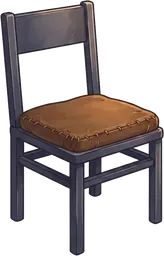
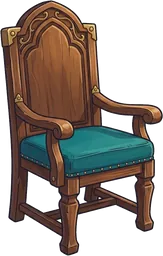
Art: wire the last seven pictures (room crests, Council chair, shopkeeper "ready")
Pack five room crests, the high-backed Council chair (replaces the
lectern-like picture) and the smiling shopkeeper face. Room banners and the
Fortress tab strip wear the round crest when Object art is on; the shield and
plain tabs stay as the fallback. All five store verdicts now have a face.
Docs: progress log, archive, design plan and the remaining-objects note.

Claude-Session: https://claude.ai/code/session_01KaVdB2cD3gs35mNKh4PsmU

diff --git a/frontend/src/lib/artManifest.ts b/frontend/src/lib/artManifest.ts
@@ -95,6 +95,12 @@ import marketBooth2 from "../assets/art/market-booth-2.webp";
 import marketBoothProduce from "../assets/art/market-booth-produce.webp";
 import councilSitPartner from "../assets/art/council-sit-partner.webp";
 import councilSitOracle from "../assets/art/council-sit-oracle.webp";
+import crestCouncil from "../assets/art/crest-council.webp";
+import crestRecords from "../assets/art/crest-records.webp";
+import crestCircle from "../assets/art/crest-circle.webp";
+import crestChronicle from "../assets/art/crest-chronicle.webp";
+import crestMap from "../assets/art/crest-map.webp";
+import shopkeeperReady from "../assets/art/shopkeeper-ready.webp";
 
 export interface PackedArt {
   src: string;
@@ -184,7 +190,7 @@ export const ART_MANIFEST = {
   "map-dividers": { src: mapDividers, width: 94, height: 160, alt: "" },
   "map-rolled": { src: mapRolled, width: 192, height: 130, alt: "" },
   "council-table": { src: councilTable, width: 320, height: 310, alt: "" },
-  "council-chair": { src: councilChair, width: 164, height: 256, alt: "" },
+  "council-chair": { src: councilChair, width: 163, height: 256, alt: "" },
   "council-candles": { src: councilCandles, width: 87, height: 256, alt: "", anchors: { "f1": [0.505, 0.012] as const, "f2": [0.18, 0.145] as const, "f3": [0.815, 0.205] as const } },
   "room-scroll": { src: roomScroll, width: 192, height: 130, alt: "" },
   "room-inkwell": { src: roomInkwell, width: 99, height: 160, alt: "" },
@@ -201,4 +207,10 @@ export const ART_MANIFEST = {
   "market-booth-produce": { src: marketBoothProduce, width: 132, height: 160, alt: "" },
   "council-sit-partner": { src: councilSitPartner, width: 192, height: 256, alt: "" },
   "council-sit-oracle": { src: councilSitOracle, width: 160, height: 256, alt: "" },
+  "crest-council": { src: crestCouncil, width: 192, height: 192, alt: "" },
+  "crest-records": { src: crestRecords, width: 192, height: 192, alt: "" },
+  "crest-circle": { src: crestCircle, width: 192, height: 192, alt: "" },
+  "crest-chronicle": { src: crestChronicle, width: 192, height: 192, alt: "" },
+  "crest-map": { src: crestMap, width: 192, height: 192, alt: "" },
+  "shopkeeper-ready": { src: shopkeeperReady, width: 365, height: 384, alt: "" },
 } as const satisfies Record<string, PackedArt>;

diff --git a/frontend/src/components/fortress/kit/Crest.tsx b/frontend/src/components/fortress/kit/Crest.tsx
@@ -1,4 +1,7 @@
 import type { CrestKind } from "../../../lib/crest";
+import { roomCrestId } from "../../../lib/roomArt";
+import type { ObjectArtId } from "../../../lib/stitchArt";
+import ObjectArtImage from "../../ObjectArtImage";
 
 /** Heraldic crest for a game page header (page-scene kit). One small painted shield per room; the
  * glyph is decoration that names the room, it never encodes a status. Fixed colours, like the other
@@ -72,11 +75,16 @@ function Glyph({ kind }: { kind: CrestKind }) {
 }
 
 export default function Crest({ kind, className = "h-11 w-11" }: { kind: CrestKind; className?: string }) {
-  return (
+  const shield = (
     <svg viewBox="0 0 40 44" className={`shrink-0 ${className}`} aria-hidden>
       <path d="M3 3 H37 V24 Q37 37 20 42 Q3 37 3 24 Z" fill="#3a2414" stroke="#d9a93e" strokeWidth="1.6" />
       <path d="M6 6 H34 V24 Q34 34 20 39 Q6 34 6 24 Z" fill="none" stroke="#7a5418" strokeWidth="0.8" />
       <Glyph kind={kind} />
     </svg>
   );
+  // Object art on: the room's round medallion replaces the shield. It is decoration (the title names the
+  // room), and the shield is the fallback when art is off, not yet generated, or fails to load.
+  const id = roomCrestId(kind);
+  if (!id) return shield;
+  return <ObjectArtImage id={id as ObjectArtId} width={44} className={`shrink-0 ${className}`} fallback={shield} />;
 }

diff --git a/frontend/src/components/fortress/FortressTabs.tsx b/frontend/src/components/fortress/FortressTabs.tsx
@@ -1,5 +1,9 @@
 import { NavLink } from "react-router-dom";
+import { crestForPath } from "../../lib/crest";
 import { FORTRESS_NAV } from "../../lib/nav";
+import { roomCrestId } from "../../lib/roomArt";
+import type { ObjectArtId } from "../../lib/stitchArt";
+import ObjectArtImage from "../ObjectArtImage";
 
 /** The Fortress rooms as one tab strip (UX noise audit, Wave 3), replacing six
  * extra sidebar links and six buttons on the Fortress page. Shown on every
@@ -25,11 +29,23 @@ export default function FortressTabs() {
             <>
               {/* A small lozenge marks the open room, so the active tab is told by shape as well as colour. */}
               {isActive && <span aria-hidden="true" className="mr-1.5 inline-block h-1.5 w-1.5 rotate-45 bg-accent align-middle" />}
+              {/* Art on: the room's small medallion before its name (decoration; the label stays the name). */}
+              <TabCrest to={item.to} />
               {item.label}
             </>
           )}
         </NavLink>
       ))}
     </nav>
+  );
+}
+
+function TabCrest({ to }: { to: string }) {
+  const id = roomCrestId(crestForPath(to));
+  if (!id) return null;
+  return (
+    <span className="mr-1.5 inline-block align-middle">
+      <ObjectArtImage id={id as ObjectArtId} width={20} fallback={null} />
+    </span>
   );
 }

diff --git a/frontend/src/lib/marketArt.ts b/frontend/src/lib/marketArt.ts
@@ -40,12 +40,12 @@ export function salBustId(mood: Mood): ObjectArtId | null {
 }
 
 /**
- * The shopkeeper's face for a store verdict. Four faces exist (Sprint 6): thoughtful = wait,
- * level gaze = promising, raised hand = pass, shrug = unknown. "ready" has no face yet (it needs a
- * smiling one), so it stays the SVG merchant. The face is the merchant's mood, never the tone
- * colour: the verdict is still written on the page beside it.
+ * The shopkeeper's face for a store verdict. Five faces exist: thoughtful = wait, level gaze = promising,
+ * raised hand = pass, shrug = unknown, and a welcoming smile = ready (added 2026-10-13). The face is the
+ * merchant's mood, never the tone colour: the verdict is still written on the page beside it.
  */
 const SHOPKEEPER_FACE: Partial<Record<StoreLevel, ObjectArtId>> = {
+  ready: "shopkeeper-ready",
   promising: "shopkeeper-promising",
   wait: "shopkeeper-wait",
   pass: "shopkeeper-pass",

diff --git a/frontend/src/lib/marketArt.test.ts b/frontend/src/lib/marketArt.test.ts
@@ -44,11 +44,11 @@ describe("salBustId", () => {
 });
 
 describe("shopkeeperFaceId", () => {
-  it("gives four verdicts a face that exists, and leaves 'ready' to the SVG merchant until it has a smiling one", () => {
-    const faces: StoreLevel[] = ["promising", "wait", "pass", "unknown"];
+  it("gives every verdict its own face, and each face exists", () => {
+    const faces: StoreLevel[] = ["ready", "promising", "wait", "pass", "unknown"];
     const ids = faces.map((l) => shopkeeperFaceId(l));
     for (const id of ids) expect(OBJECT_ART[id!]).toBeDefined();
-    expect(new Set(ids).size).toBe(4);
-    expect(shopkeeperFaceId("ready")).toBeNull();
+    expect(new Set(ids).size).toBe(5);
+    expect(shopkeeperFaceId("ready")).toBe("shopkeeper-ready");
   });
 });

diff --git a/frontend/src/lib/roomArt.test.ts b/frontend/src/lib/roomArt.test.ts
@@ -42,6 +42,13 @@ describe("room art ids", () => {
     }
   });
 
+  it("gives each of the five rooms its own crest picture, and no other room one", () => {
+    const rooms = ["council", "records", "circle", "chronicle", "map"] as const;
+    const ids = rooms.map((r) => roomCrestId(r));
+    expect(ids).toEqual(rooms.map((r) => `crest-${r}`));
+    for (const room of ["siege", "market", "fortress"] as const) expect(roomCrestId(room)).toBeNull();
+  });
+
   it("returns null for a crest or seal whose picture is not packed (never a broken id)", () => {
     const packed = Object.keys(ART_MANIFEST);
     for (const room of ["council", "records", "circle", "chronicle", "map"] as const) {

diff --git a/frontend/src/components/marketplace/MarketArt.tsx b/frontend/src/components/marketplace/MarketArt.tsx
@@ -47,7 +47,7 @@ export function Awning({ a, b, stripes = 10, className = "" }: { a: string; b: s
   );
 }
 
-/** The merchant: the Stitch face for the verdict when art is on (four of the five), else a generic drawn shopkeeper, not anyone's likeness. */
+/** The merchant: the Stitch face for the verdict when art is on (all five verdicts have one), else a generic drawn shopkeeper, not anyone's likeness. */
 export function Merchant({ level, size = 84 }: { level: StoreLevel; size?: number }) {
   const face = shopkeeperFaceId(level);
   const svg = <MerchantSvg level={level} size={size} />;

diff --git a/docs/PROGRESS.md b/docs/PROGRESS.md
@@ -1,22 +1,21 @@
 # Aladdin — Progress
 
-**Last updated:** 2026-10-13 (journal entries can now be edited, PR open; Circle drag-to-place and Siege short rows built on a branch, not merged). Rolling log: active status only, under 100 lines (rules in [CLAUDE.md](../CLAUDE.md), "Progress file rules"). Architecture: [architecture.md](architecture.md).
+**Last updated:** 2026-10-13 (the seven last pictures are wired on a branch, PR to review; Circle/Siege redesign #126 and journal edit #128 are merged). Rolling log: active status only, under 100 lines (rules in [CLAUDE.md](../CLAUDE.md), "Progress file rules"). Architecture: [architecture.md](architecture.md).
 
 ## Current Objective
 
-**The hardening sprint is finished and merged to `main` as PR #125 (deploy not verified); the next phase is the trust slice, starting with C1 Siege back-test. The Circle and Siege redesign is on its own branch first.** PRs #121 to #125 (Sprint 11, hardening baseline, master toggle and art pass, docs reorganization, map and Fortress fixes) are merged to `main`; deploy not verified. Results and what was left: [docs/sprints/hardening-sprint-2026-10-12.md](sprints/hardening-sprint-2026-10-12.md). Decided 2026-10-13: a knife-edge tower stays off the Council agenda for now (the agenda lists real gaps; a near-threshold flag would be noise at this data size). Plan for the art: [docs/game/design-master-sprint-plan-2026-10-11.md](game/design-master-sprint-plan-2026-10-11.md).
+**Close the design plan, then the trust slice.** Hardening (#125), the Circle and Siege redesign (#126) and journal editing (#128) are merged to `main`; deploys not verified. The seven last pictures (five room crests, the Council chair, the shopkeeper "ready" face) are wired on `feature/design-last7-crests`, PR to review. Next: Sprint 7 (default art decision), then C1 Siege back-test. Decided 2026-10-13: no more feature contest until the design plan and C1 are done; a knife-edge tower stays off the Council agenda. Plans: [design-remaining-objects-2026-10-13.md](game/design-remaining-objects-2026-10-13.md), [design-master-sprint-plan-2026-10-11.md](game/design-master-sprint-plan-2026-10-11.md).
 
-State: local checkout `E:\Aladdin` was 8 commits behind `main` on 2026-10-13 and is now on `feature/design-sprint-14-circle-and-siege`, branched from `main` at `500ea0e` (the hardening PR #125 is merged there); masters live in git-ignored `art-masters/`. Repo migration head `t1f2a3b4c5d6`. Live URLs: frontend `https://exciting-gratitude-production-71b5.up.railway.app`, backend `https://aladdin-production-bd25.up.railway.app`.
+State: local checkout `E:\Aladdin` is on `feature/design-last7-crests` (cut from `main` at `9678178`); masters live in git-ignored `art-masters/`. Repo migration head `t1f2a3b4c5d6`. Live URLs: frontend `https://exciting-gratitude-production-71b5.up.railway.app`, backend `https://aladdin-production-bd25.up.railway.app`.
 
 ## Active Tasks
 
-- [ ] **Try editing a journal entry (Faiz):** every entry on the Journal page and the holding page now has an Edit link next to Delete; the form is prefilled and also lets you fix the 6- and 12-month reviews; the company can't be changed. No backend change (the PATCH endpoint already existed). Written on branch `feature/journal-edit`, PR to review, not merged, not deployed; the new component test passes, the full suite and a hand check in the browser are not done
-- [ ] **Review the Circle and Siege redesign (Faiz):** Circle: drag a sector marker onto Inside, On the edge or Outside and it saves on the drop (fog = clear, Undo offered); tap a marker for its note and a keyboard choice; no per-row buttons; sector names no longer collide. Siege: each tower is one short row, beta/fit/days and the stress case behind Details, with Rough guide and Differs from stress case badges. Not merged, not deployed, not tried by hand on a phone
-- [ ] **Confirm the hardening deploy (Faiz):** PR #125 is merged, and a merge deploys. What it holds: friendly load errors with Try again on all 8 game pages, plain-language LLM failure reasons, upload filename guard, accessibility fixes (Lighthouse a11y 100 on the pages re-run), Night Watch no longer pushes the scene down. A merge is a production deploy
-- [ ] **After the deploy, run the browser specs on the live site (Faiz or Claude):** `SMOKE_FRONTEND_URL`, `SMOKE_API_URL`, then `npm run smoke` and `npx playwright test e2e/game-pages.spec.ts`. Both game specs passed only against a local demo stack (33 of 33 and 16 of 16), never against the live site
-- [ ] **C1 Siege back-test (Claude):** with the `siege_scenarios_v3` fix so the unmodelled share shows in the headline (finding 3 of [the team review](game/game-mode-team-review-2026-10-09.md)); read the C1 spec first, new versioned file, no migration
+- [ ] **Review the last-seven pictures PR (Faiz):** five room crests in the room banners and as small medallions in the tab strip, the new high-backed Council chair, and a smiling shopkeeper for the "ready" verdict. Art switch on only; checked with tests, tsc and lint, not seen in a browser. Branch `feature/design-last7-crests`, not merged, not deployed
+- [ ] **Optional backdrops (Faiz):** Council, Circle and Map wide scenes; descriptions in [the design doc](game/design-remaining-objects-2026-10-13.md). Skip if you'd rather not
+- [ ] **Confirm the hardening deploy, then run the live browser specs (Faiz or Claude):** `SMOKE_FRONTEND_URL`, `SMOKE_API_URL`, then `npm run smoke` and `npx playwright test e2e/game-pages.spec.ts` (both passed only against a local demo stack)
+- [ ] **Sprint 7 close-out (Claude, next):** fix Fortress phone performance (73-82 today), re-score identity with screenshots, colour-blind pass, decide the default art, update the visual-identity standard
+- [ ] **C1 Siege back-test (Claude):** with the `siege_scenarios_v3` fix so the unmodelled share shows in the headline (finding 3 of [the team review](game/game-mode-team-review-2026-10-09.md)); new versioned file, no migration
 - [ ] **D1 Plain lens, then D2 Camera (Claude):** trust and first-glance legibility, after C1
-- [ ] **Sprint 7 close-out (Claude):** re-score identity with screenshots (scores are inferred from code), phone performance at 4x throttle on real data, colour-blind pass, update the visual-identity standard
 
 ## Recent Blockers / Open Questions
 

diff --git a/docs/game/design-remaining-objects-2026-10-13.md b/docs/game/design-remaining-objects-2026-10-13.md
@@ -1,0 +1,20 @@
+# Design: closing plan and last Stitch objects (2026-10-13)
+
+Status: **the seven needed pictures arrived and are wired (branch `feature/design-last7-crests`, PR to review, not merged, not deployed).** Three optional backdrops remain. Supersedes "Still missing for the rooms" in [design-master-sprint-plan-2026-10-11.md](design-master-sprint-plan-2026-10-11.md).
+
+## Standing rule
+
+Whenever a new Google Stitch picture is needed, Claude says so at once, with a short non-technical description of what to generate. A slot is never left empty or silently left on its SVG without telling Faiz.
+
+## Done (2026-10-13)
+
+- **Room crests** (`crest-council`, `crest-records`, `crest-circle`, `crest-chronicle`, `crest-map`, 192 px, 12-14 KB each): the round gilded medallion replaces the shield in each room's banner (`Crest`), and a 20 px copy sits before each room's name in the tab strip (`FortressTabs`). Decoration only: the title and tab label still name the room, the active tab keeps its lozenge and `aria-current`. Art off, or a failed load, keeps the shield and the plain tab. Siege, Marketplace and Fortress have no crest picture and keep the shield.
+- **Council chair** (`council-chair`, replaced): a proper high-backed armchair with teal cushion instead of the earlier lectern-like picture. It is the fallback seat; the advisors normally sit in the consolidated `council-sit-*` pictures.
+- **Shopkeeper "ready"** (`shopkeeper-ready`): the smiling face, so all five store verdicts now have a face and the SVG merchant remains only the fallback.
+
+## Still open
+
+- Three optional wide backdrops, quiet and muted, no people or writing: **Council** (candle-lit stone chamber, empty), **Circle** (grassy clearing at dusk, standing stones faint in the distance), **Map** (cartographer's desk from slightly above, parchment edge and a few instruments). Packed with key mode `none`, each at most 120 KB, behind the banner.
+- Sprint 7 last: Fortress phone performance, identity re-score with screenshots, colour-blind pass, decide the default art, update the visual-identity standard.
+
+Unused masters (kept, not packed): pin, wave tile, signpost, telescope, lantern post, sundial, weathervane, cairn, pigeonholes, tomes, gavel, planted flag, the tower-on-teal-disc crest.

diff --git a/docs/game/design-master-sprint-plan-2026-10-11.md b/docs/game/design-master-sprint-plan-2026-10-11.md
@@ -280,6 +280,8 @@ Same rules as Sprints 1 to 6: one branch and one PR per sprint off fresh `main`,
 - Not done, by design: pin and wave tile (cut line).
 - Checks: tsc (only the known `artAssets.test.ts` gap), eslint (0 errors), the kit and map tests pass (art off draws no frame, tools or image). Not rendered in a browser: corner size over settlements near the edge, and the zoom button position, need Faiz's eye.
 
+**Update 2026-10-13:** the five crests, the high-backed Council chair and the shopkeeper "ready" face have arrived and are wired (see [design-remaining-objects-2026-10-13.md](design-remaining-objects-2026-10-13.md)); only the three optional backdrops remain. The list below is the 2026-10-12 state.
+
 **Still missing for the rooms (updated 2026-10-12; prompts are in the master doc, Part 6b).**
 - **Crests (Sprint 8, batch 3):** the five room crests (council, records, circle, chronicle, map). One medallion arrived on 2026-10-12, a tower on a teal disc: it fits the Fortress, not a room, and is kept in the masters.
 - **Council:** a second, differently shaped advisor chair (the high-backed one arrived as a lectern). Optional council backdrop.

diff --git a/docs/archive/progress-archive.md b/docs/archive/progress-archive.md
@@ -3,6 +3,10 @@
 Completed milestones and retired status, moved out of `docs/PROGRESS.md` under the rolling-log rules
 in `CLAUDE.md` ("Progress file rules"). Newest snapshot first. Older: [PROGRESS-full-2026-09-30.md](PROGRESS-full-2026-09-30.md).
 
+## Closed 2026-10-13 — Circle and Siege redesign, journal edit
+
+- **Merged:** Circle drag-to-place and Siege short rows (PR #126); journal entries editable after saving (PR #128). Deploys not verified.
+
 ## Closed 2026-10-13 — Diversified Fund sector
 
 - **Merged:** new "Diversified Fund" sector for multi-sector funds such as Heimdal Utbytte (PR #127, `origin/main`, 2026-10-13); deploy not verified. Funds stay out of the Circle of Competence and sector research.
